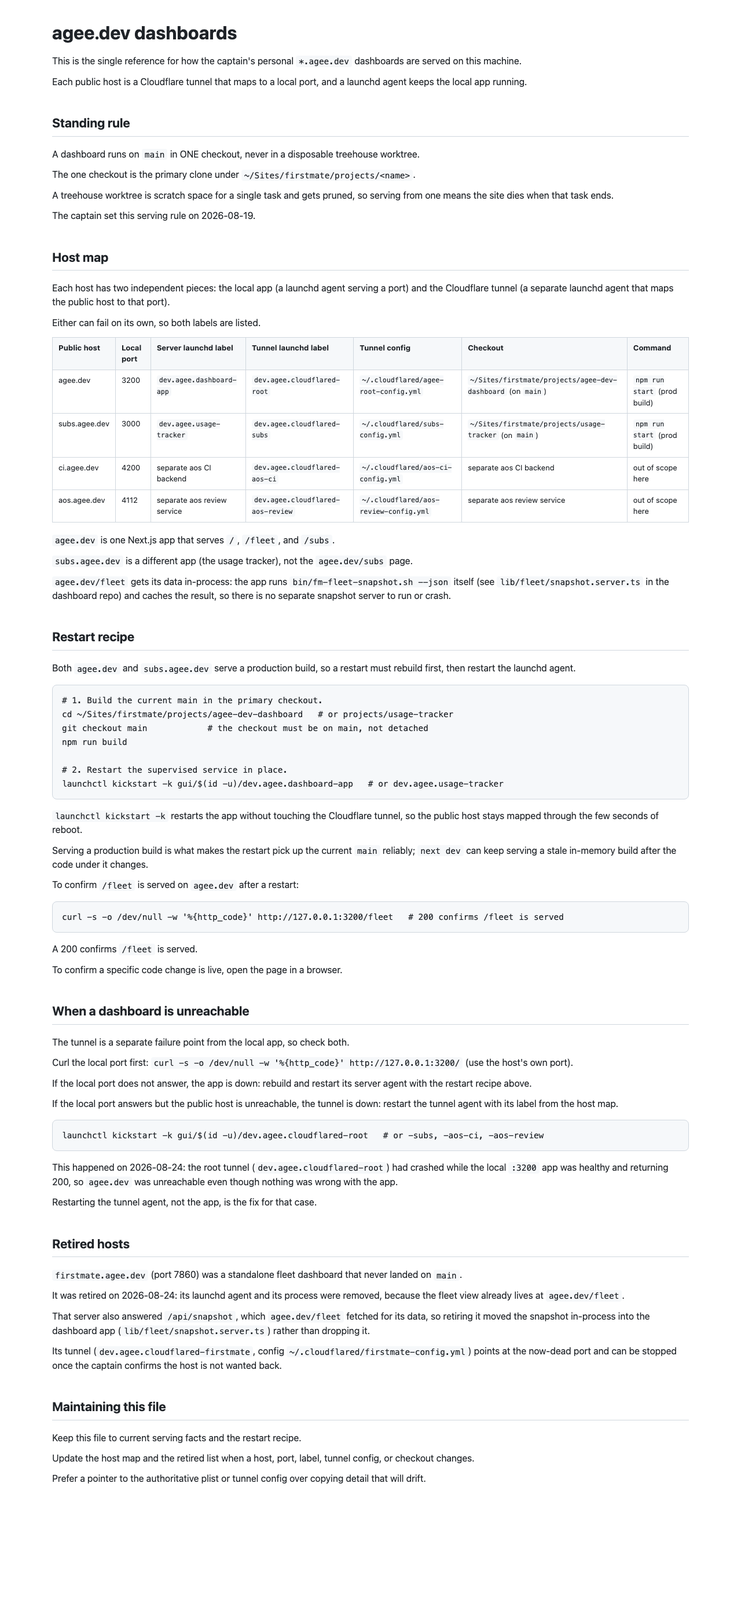
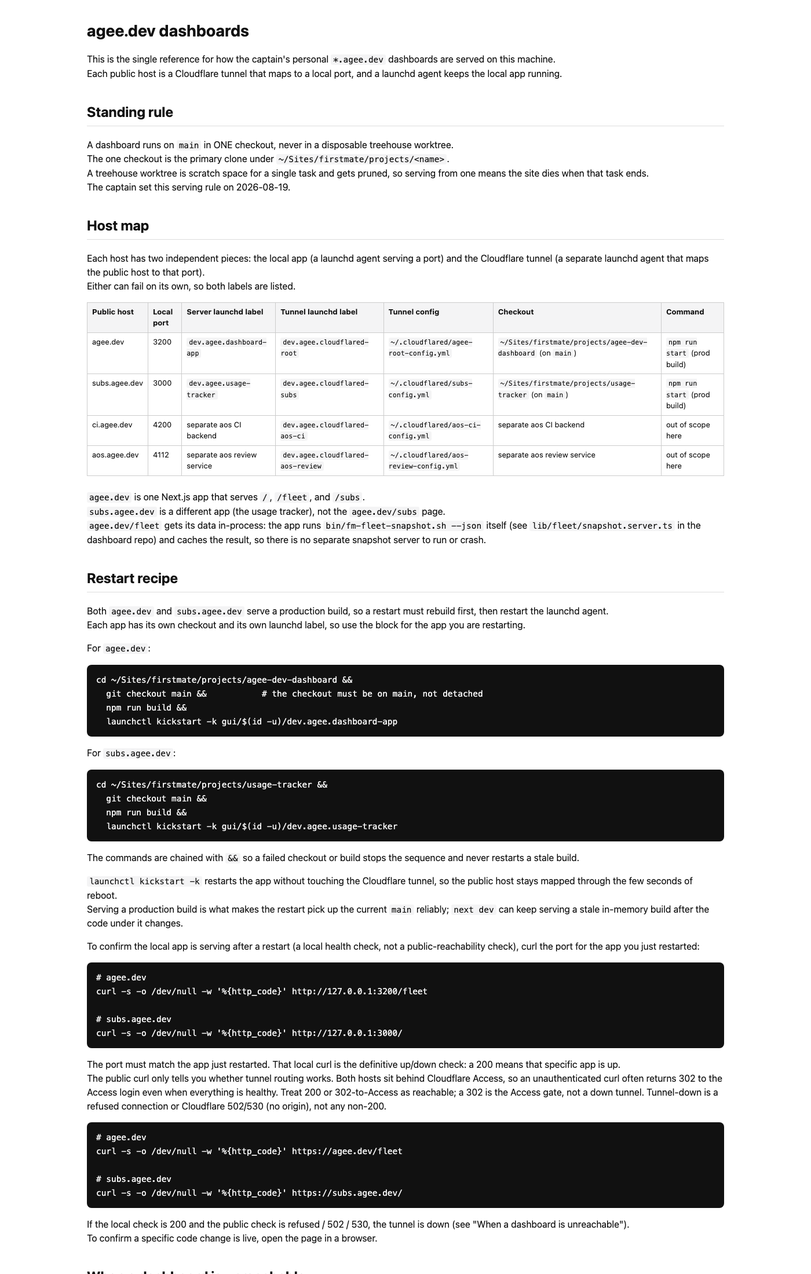
no-mistakes: evidence for fm/fix-dashboard-services-apply (run 01M0TDNG8GP13NNZNC78METY2P)

Changed region(s): [[0.0625, 0.0, 0.9062, 0.9891]]

diff --git a/.no-mistakes/evidence/fm/fix-dashboard-services-apply/dashboards-operator-reference.html b/.no-mistakes/evidence/fm/fix-dashboard-services-apply/dashboards-operator-reference.html
@@ -1,100 +1,65 @@
-<!DOCTYPE html>
-<html lang="en">
-<head>
-<meta charset="utf-8"/>
+<!doctype html>
+<html lang="en"><head><meta charset="utf-8">
 <title>agee.dev dashboards — operator reference</title>
 <style>
   :root { color-scheme: light; }
-  body { font: 16px/1.5 -apple-system, BlinkMacSystemFont, "Segoe UI", Helvetica, Arial, sans-serif; margin: 0; background: #fff; color: #1f2328; }
-  main { max-width: 1100px; margin: 0 auto; padding: 32px 24px 80px; }
-  h1 { font-size: 2rem; border-bottom: 1px solid #d1d9e0; padding-bottom: .3em; }
-  h2 { font-size: 1.4rem; margin-top: 2em; border-bottom: 1px solid #d8dee4; padding-bottom: .2em; }
-  p { margin: 0.8em 0; }
-  code { background: #f6f8fa; padding: .15em .35em; border-radius: 4px; font-size: 85%; }
-  pre { background: #f6f8fa; padding: 16px; overflow: auto; border-radius: 8px; }
-  pre code { background: none; padding: 0; }
-  table { border-collapse: collapse; width: 100%; margin: 1em 0; font-size: 13px; }
-  th, td { border: 1px solid #d1d9e0; padding: 8px 10px; text-align: left; vertical-align: top; }
-  th { background: #f6f8fa; }
-</style>
-</head>
-<body>
-<main>
-<h1>agee.dev dashboards</h1>
-<p>This is the single reference for how the captain&#x27;s personal <code>*.agee.dev</code> dashboards are served on this machine.</p>
-<p>Each public host is a Cloudflare tunnel that maps to a local port, and a launchd agent keeps the local app running.</p>
-<h2>Standing rule</h2>
-<p>A dashboard runs on <code>main</code> in ONE checkout, never in a disposable treehouse worktree.</p>
-<p>The one checkout is the primary clone under <code>~/Sites/firstmate/projects/&lt;name&gt;</code>.</p>
-<p>A treehouse worktree is scratch space for a single task and gets pruned, so serving from one means the site dies when that task ends.</p>
-<p>The captain set this serving rule on 2026-08-19.</p>
-<h2>Host map</h2>
-<p>Each host has two independent pieces: the local app (a launchd agent serving a port) and the Cloudflare tunnel (a separate launchd agent that maps the public host to that port).</p>
-<p>Either can fail on its own, so both labels are listed.</p>
-<table><thead><tr><th>Public host</th><th>Local port</th><th>Server launchd label</th><th>Tunnel launchd label</th><th>Tunnel config</th><th>Checkout</th><th>Command</th></tr></thead><tbody><tr><td>agee.dev</td><td>3200</td><td><code>dev.agee.dashboard-app</code></td><td><code>dev.agee.cloudflared-root</code></td><td><code>~/.cloudflared/agee-root-config.yml</code></td><td><code>~/Sites/firstmate/projects/agee-dev-dashboard</code> (on <code>main</code>)</td><td><code>npm run start</code> (prod build)</td></tr><tr><td>subs.agee.dev</td><td>3000</td><td><code>dev.agee.usage-tracker</code></td><td><code>dev.agee.cloudflared-subs</code></td><td><code>~/.cloudflared/subs-config.yml</code></td><td><code>~/Sites/firstmate/projects/usage-tracker</code> (on <code>main</code>)</td><td><code>npm run start</code> (prod build)</td></tr><tr><td>ci.agee.dev</td><td>4200</td><td>separate aos CI backend</td><td><code>dev.agee.cloudflared-aos-ci</code></td><td><code>~/.cloudflared/aos-ci-config.yml</code></td><td>separate aos CI backend</td><td>out of scope here</td></tr><tr><td>aos.agee.dev</td><td>4112</td><td>separate aos review service</td><td><code>dev.agee.cloudflared-aos-review</code></td><td><code>~/.cloudflared/aos-review-config.yml</code></td><td>separate aos review service</td><td>out of scope here</td></tr></tbody></table>
-<p><code>agee.dev</code> is one Next.js app that serves <code>/</code>, <code>/fleet</code>, and <code>/subs</code>.</p>
-<p><code>subs.agee.dev</code> is a different app (the usage tracker), not the <code>agee.dev/subs</code> page.</p>
-<p><code>agee.dev/fleet</code> gets its data in-process: the app runs <code>bin/fm-fleet-snapshot.sh --json</code> itself (see <code>lib/fleet/snapshot.server.ts</code> in the dashboard repo) and caches the result, so there is no separate snapshot server to run or crash.</p>
-<h2>Restart recipe</h2>
-<p>Both <code>agee.dev</code> and <code>subs.agee.dev</code> serve a production build, so a restart must rebuild first, then restart the launchd agent.</p>
-<p>Each app has its own checkout and its own launchd label, so use the block for the app you are restarting.</p>
-<p>For <code>agee.dev</code>:</p>
-<pre class="lang-bash"><code>cd ~/Sites/firstmate/projects/agee-dev-dashboard
-git checkout main            # the checkout must be on main, not detached
-npm run build
-launchctl kickstart -k gui/$(id -u)/dev.agee.dashboard-app</code></pre>
-<p>For <code>subs.agee.dev</code>:</p>
-<pre class="lang-bash"><code>cd ~/Sites/firstmate/projects/usage-tracker
-git checkout main
-npm run build
-launchctl kickstart -k gui/$(id -u)/dev.agee.usage-tracker</code></pre>
-<p><code>launchctl kickstart -k</code> restarts the app without touching the Cloudflare tunnel, so the public host stays mapped through the few seconds of reboot.</p>
-<p>Serving a production build is what makes the restart pick up the current <code>main</code> reliably; <code>next dev</code> can keep serving a stale in-memory build after the code under it changes.</p>
-<p>To confirm the local app is serving after a restart (a local health check, not a public-reachability check), curl the port for the app you just restarted:</p>
-<pre class="lang-bash"><code># agee.dev
+  body { font: 16px/1.5 ui-sans-serif, system-ui, -apple-system, sans-serif; max-width: 1100px; margin: 32px auto; padding: 0 24px 64px; color: #111; }
+  h1 { font-size: 28px; margin-bottom: 8px; }
+  h2 { margin-top: 36px; border-bottom: 1px solid #ddd; padding-bottom: 6px; }
+  table { border-collapse: collapse; width: 100%; font-size: 13px; margin: 16px 0 24px; }
+  th, td { border: 1px solid #ccc; padding: 6px 8px; text-align: left; vertical-align: top; }
+  th { background: #f4f4f5; }
+  code { font-family: ui-monospace, SFMono-Regular, Menlo, monospace; font-size: 0.9em; background: #f4f4f5; padding: 1px 4px; border-radius: 3px; }
+  pre.code { background: #111; color: #f5f5f5; padding: 14px 16px; overflow: auto; border-radius: 8px; }
+  pre.code code { background: transparent; color: inherit; padding: 0; }
+  ul { padding-left: 22px; }
+</style></head><body>
+<h1>agee.dev dashboards</h1><p>This is the single reference for how the captain&#x27;s personal <code>*.agee.dev</code> dashboards are served on this machine.<br>
+Each public host is a Cloudflare tunnel that maps to a local port, and a launchd agent keeps the local app running.</p><h2>Standing rule</h2><p>A dashboard runs on <code>main</code> in ONE checkout, never in a disposable treehouse worktree.<br>
+The one checkout is the primary clone under <code>~/Sites/firstmate/projects/&lt;name&gt;</code>.<br>
+A treehouse worktree is scratch space for a single task and gets pruned, so serving from one means the site dies when that task ends.<br>
+The captain set this serving rule on 2026-08-19.</p><h2>Host map</h2><p>Each host has two independent pieces: the local app (a launchd agent serving a port) and the Cloudflare tunnel (a separate launchd agent that maps the public host to that port).<br>
+Either can fail on its own, so both labels are listed.</p><table><thead><tr><th>Public host</th><th>Local port</th><th>Server launchd label</th><th>Tunnel launchd label</th><th>Tunnel config</th><th>Checkout</th><th>Command</th></tr></thead><tbody><tr><td>agee.dev</td><td>3200</td><td><code>dev.agee.dashboard-app</code></td><td><code>dev.agee.cloudflared-root</code></td><td><code>~/.cloudflared/agee-root-config.yml</code></td><td><code>~/Sites/firstmate/projects/agee-dev-dashboard</code> (on <code>main</code>)</td><td><code>npm run start</code> (prod build)</td></tr><tr><td>subs.agee.dev</td><td>3000</td><td><code>dev.agee.usage-tracker</code></td><td><code>dev.agee.cloudflared-subs</code></td><td><code>~/.cloudflared/subs-config.yml</code></td><td><code>~/Sites/firstmate/projects/usage-tracker</code> (on <code>main</code>)</td><td><code>npm run start</code> (prod build)</td></tr><tr><td>ci.agee.dev</td><td>4200</td><td>separate aos CI backend</td><td><code>dev.agee.cloudflared-aos-ci</code></td><td><code>~/.cloudflared/aos-ci-config.yml</code></td><td>separate aos CI backend</td><td>out of scope here</td></tr><tr><td>aos.agee.dev</td><td>4112</td><td>separate aos review service</td><td><code>dev.agee.cloudflared-aos-review</code></td><td><code>~/.cloudflared/aos-review-config.yml</code></td><td>separate aos review service</td><td>out of scope here</td></tr></tbody></table><p><code>agee.dev</code> is one Next.js app that serves <code>/</code>, <code>/fleet</code>, and <code>/subs</code>.<br>
+<code>subs.agee.dev</code> is a different app (the usage tracker), not the <code>agee.dev/subs</code> page.<br>
+<code>agee.dev/fleet</code> gets its data in-process: the app runs <code>bin/fm-fleet-snapshot.sh --json</code> itself (see <code>lib/fleet/snapshot.server.ts</code> in the dashboard repo) and caches the result, so there is no separate snapshot server to run or crash.</p><h2>Restart recipe</h2><p>Both <code>agee.dev</code> and <code>subs.agee.dev</code> serve a production build, so a restart must rebuild first, then restart the launchd agent.<br>
+Each app has its own checkout and its own launchd label, so use the block for the app you are restarting.</p><p>For <code>agee.dev</code>:</p><pre class="code"><code>cd ~/Sites/firstmate/projects/agee-dev-dashboard &amp;&amp;
+  git checkout main &amp;&amp;           # the checkout must be on main, not detached
+  npm run build &amp;&amp;
+  launchctl kickstart -k gui/$(id -u)/dev.agee.dashboard-app
+</code></pre><p>For <code>subs.agee.dev</code>:</p><pre class="code"><code>cd ~/Sites/firstmate/projects/usage-tracker &amp;&amp;
+  git checkout main &amp;&amp;
+  npm run build &amp;&amp;
+  launchctl kickstart -k gui/$(id -u)/dev.agee.usage-tracker
+</code></pre><p>The commands are chained with <code>&amp;&amp;</code> so a failed checkout or build stops the sequence and never restarts a stale build.</p><p><code>launchctl kickstart -k</code> restarts the app without touching the Cloudflare tunnel, so the public host stays mapped through the few seconds of reboot.<br>
+Serving a production build is what makes the restart pick up the current <code>main</code> reliably; <code>next dev</code> can keep serving a stale in-memory build after the code under it changes.</p><p>To confirm the local app is serving after a restart (a local health check, not a public-reachability check), curl the port for the app you just restarted:</p><pre class="code"><code># agee.dev
 curl -s -o /dev/null -w &#x27;%{http_code}&#x27; http://127.0.0.1:3200/fleet
 
 # subs.agee.dev
-curl -s -o /dev/null -w &#x27;%{http_code}&#x27; http://127.0.0.1:3000/</code></pre>
-<p>The port must match the app just restarted. That local curl is the definitive up/down check: a 200 means that specific app is up.</p>
-<p>The public curl only tells you whether tunnel routing works. Both hosts sit behind Cloudflare Access, so an unauthenticated curl often returns 302 to the Access login even when everything is healthy. Treat 200 or 302-to-Access as reachable; a 302 is the Access gate, not a down tunnel. Tunnel-down is a refused connection or Cloudflare 502/530 (no origin), not any non-200.</p>
-<pre class="lang-bash"><code># agee.dev
+curl -s -o /dev/null -w &#x27;%{http_code}&#x27; http://127.0.0.1:3000/
+</code></pre><p>The port must match the app just restarted. That local curl is the definitive up/down check: a 200 means that specific app is up.<br>
+The public curl only tells you whether tunnel routing works. Both hosts sit behind Cloudflare Access, so an unauthenticated curl often returns 302 to the Access login even when everything is healthy. Treat 200 or 302-to-Access as reachable; a 302 is the Access gate, not a down tunnel. Tunnel-down is a refused connection or Cloudflare 502/530 (no origin), not any non-200.</p><pre class="code"><code># agee.dev
 curl -s -o /dev/null -w &#x27;%{http_code}&#x27; https://agee.dev/fleet
 
 # subs.agee.dev
-curl -s -o /dev/null -w &#x27;%{http_code}&#x27; https://subs.agee.dev/</code></pre>
-<p>If the local check is 200 and the public check is refused / 502 / 530, the tunnel is down (see &quot;When a dashboard is unreachable&quot;).</p>
-<p>To confirm a specific code change is live, open the page in a browser.</p>
-<h2>When a dashboard is unreachable</h2>
-<p>The tunnel is a separate failure point from the local app, so check both.</p>
-<p>Probe the local port of the host you are diagnosing:</p>
-<pre class="lang-bash"><code># agee.dev
+curl -s -o /dev/null -w &#x27;%{http_code}&#x27; https://subs.agee.dev/
+</code></pre><p>If the local check is 200 and the public check is refused / 502 / 530, the tunnel is down (see &quot;When a dashboard is unreachable&quot;).<br>
+To confirm a specific code change is live, open the page in a browser.</p><h2>When a dashboard is unreachable</h2><p>The tunnel is a separate failure point from the local app, so check both.<br>
+Probe the local port of the host you are diagnosing:</p><pre class="code"><code># agee.dev
 curl -s -o /dev/null -w &#x27;%{http_code}&#x27; http://127.0.0.1:3200/fleet
 
 # subs.agee.dev
-curl -s -o /dev/null -w &#x27;%{http_code}&#x27; http://127.0.0.1:3000/</code></pre>
-<p>A 200 on that port confirms that specific local app is up.</p>
-<p>If the local port does not answer, the app is down: rebuild and restart its server agent with the restart recipe above.</p>
-<p>If the local port answers, the app is up. The public curl only distinguishes tunnel routing from a down tunnel. Both hosts sit behind Cloudflare Access, so an unauthenticated curl often returns 302 to the Access login even when the tunnel and app are healthy. 200 or 302-to-Access means the host is reachable; a 302 is the Access gate, not tunnel-down. Tunnel-down is a refused connection or Cloudflare 502/530 (no origin).</p>
-<pre class="lang-bash"><code># agee.dev
+curl -s -o /dev/null -w &#x27;%{http_code}&#x27; http://127.0.0.1:3000/
+</code></pre><p>A 200 on that port confirms that specific local app is up.</p><p>If the local port does not answer, the app is down: rebuild and restart its server agent with the restart recipe above.</p><p>If the local port answers, the app is up. The public curl only distinguishes tunnel routing from a down tunnel. Both hosts sit behind Cloudflare Access, so an unauthenticated curl often returns 302 to the Access login even when the tunnel and app are healthy. 200 or 302-to-Access means the host is reachable; a 302 is the Access gate, not tunnel-down. Tunnel-down is a refused connection or Cloudflare 502/530 (no origin).</p><pre class="code"><code># agee.dev
 curl -s -o /dev/null -w &#x27;%{http_code}&#x27; https://agee.dev/fleet
 
 # subs.agee.dev
-curl -s -o /dev/null -w &#x27;%{http_code}&#x27; https://subs.agee.dev/</code></pre>
-<p>If the local port answers but the public check is refused / 502 / 530, the tunnel is down: restart the tunnel agent whose label matches the affected host from the host map. The label is <code>dev.agee.cloudflared-&lt;name&gt;</code>, where <code>&lt;name&gt;</code> is <code>root</code>, <code>subs</code>, <code>aos-ci</code>, or <code>aos-review</code>.</p>
-<pre class="lang-bash"><code>launchctl kickstart -k gui/$(id -u)/dev.agee.cloudflared-&lt;name&gt;</code></pre>
-<p>This happened on 2026-08-24: the root tunnel (<code>dev.agee.cloudflared-root</code>) had crashed while the local <code>:3200</code> app was healthy and returning 200, so <code>agee.dev</code> was unreachable even though nothing was wrong with the app.</p>
-<p>Restarting the tunnel agent, not the app, is the fix for that case.</p>
-<h2>Retired hosts</h2>
-<p><code>firstmate.agee.dev</code> (port 7860) was a standalone fleet dashboard that never landed on <code>main</code>.</p>
-<p>It was retired on 2026-08-24: its launchd agent and its process were removed, because the fleet view already lives at <code>agee.dev/fleet</code>.</p>
-<p>That server also answered <code>/api/snapshot</code>, which <code>agee.dev/fleet</code> fetched for its data, so retiring it moved the snapshot in-process into the dashboard app (<code>lib/fleet/snapshot.server.ts</code>) rather than dropping it.</p>
-<p>Its tunnel (<code>dev.agee.cloudflared-firstmate</code>, config <code>~/.cloudflared/firstmate-config.yml</code>) was stopped on 2026-08-24 and its launchd plist disabled (renamed to <code>.disabled</code>), so nothing serves <code>firstmate.agee.dev</code>. Its DNS may still resolve to Cloudflare, which now returns an error / non-200 because no tunnel backs the host.</p>
-<p>To bring <code>firstmate.agee.dev</code> back, land the fleet-dashboard server on <code>main</code>, restore the plist, and start the tunnel again.</p>
-<h2>Maintaining this file</h2>
-<p>Keep this file to current serving facts and the restart recipe.</p>
-<p>Update the host map and the retired list when a host, port, label, tunnel config, or checkout changes.</p>
-<p>Prefer a pointer to the authoritative plist or tunnel config over copying detail that will drift.</p>
-</main>
-</body>
-</html>
+curl -s -o /dev/null -w &#x27;%{http_code}&#x27; https://subs.agee.dev/
+</code></pre><p>If the local port answers but the public check is refused / 502 / 530, the tunnel is down: restart the tunnel agent whose label matches the affected host from the host map. The label is <code>dev.agee.cloudflared-&lt;name&gt;</code>, where <code>&lt;name&gt;</code> is <code>root</code>, <code>subs</code>, <code>aos-ci</code>, or <code>aos-review</code>.</p><pre class="code"><code>launchctl kickstart -k gui/$(id -u)/dev.agee.cloudflared-&lt;name&gt;
+</code></pre><p>This happened on 2026-08-24: the root tunnel (<code>dev.agee.cloudflared-root</code>) had crashed while the local <code>:3200</code> app was healthy and returning 200, so <code>agee.dev</code> was unreachable even though nothing was wrong with the app.<br>
+Restarting the tunnel agent, not the app, is the fix for that case.</p><h2>Retired hosts</h2><p><code>firstmate.agee.dev</code> (port 7860) was a standalone fleet dashboard that never landed on <code>main</code>.<br>
+It was retired on 2026-08-24: its launchd agent and its process were removed, because the fleet view already lives at <code>agee.dev/fleet</code>.<br>
+That server also answered <code>/api/snapshot</code>, which <code>agee.dev/fleet</code> fetched for its data, so retiring it moved the snapshot in-process into the dashboard app (<code>lib/fleet/snapshot.server.ts</code>) rather than dropping it.<br>
+Its tunnel (<code>dev.agee.cloudflared-firstmate</code>, config <code>~/.cloudflared/firstmate-config.yml</code>) was stopped on 2026-08-24 and its launchd plist disabled (renamed to <code>.disabled</code>), so nothing serves <code>firstmate.agee.dev</code>. Its DNS may still resolve to Cloudflare, which now returns an error / non-200 because no tunnel backs the host.</p><p>To bring <code>firstmate.agee.dev</code> back, both launchd agents have to return, or the tunnel would run with no server behind port 7860:</p><ul><li>Server: land the fleet-dashboard server (<code>bin/fm-fleet-dashboard.js</code>, which currently lives only on an unmerged branch) on <code>main</code>, then recreate and load its <code>dev.agee.firstmate-dashboard</code> launchd agent (that plist was deleted, not disabled).</li><li>Tunnel: rename <code>dev.agee.cloudflared-firstmate.plist.disabled</code> back to <code>.plist</code> and load it (<code>launchctl bootstrap gui/$(id -u) ~/Library/LaunchAgents/dev.agee.cloudflared-firstmate.plist</code>).</li></ul><h2>Maintaining this file</h2><p>Keep this file to current serving facts and the restart recipe.<br>
+Update the host map and the retired list when a host, port, label, tunnel config, or checkout changes.<br>
+Prefer a pointer to the authoritative plist or tunnel config over copying detail that will drift.</p>
+</body></html>

diff --git a/.no-mistakes/evidence/fm/fix-dashboard-services-apply/dashboards-operator-reference-lower.html b/.no-mistakes/evidence/fm/fix-dashboard-services-apply/dashboards-operator-reference-lower.html
@@ -1,67 +1,35 @@
-<!DOCTYPE html><html><head><meta charset="utf-8"/><title>dashboards restart/unreachable/retired</title>
+<!doctype html>
+<html lang="en"><head><meta charset="utf-8">
+<title>agee.dev dashboards — operator reference</title>
 <style>
-body{font:16px/1.5 -apple-system,BlinkMacSystemFont,sans-serif;margin:0;background:#fff;color:#1f2328}
-main{max-width:1100px;margin:0 auto;padding:24px}
-h2{border-bottom:1px solid #d8dee4;padding-bottom:.2em}
-code{background:#f6f8fa;padding:.15em .35em;border-radius:4px;font-size:85%}
-pre{background:#f6f8fa;padding:16px;border-radius:8px;overflow:auto}
-</style></head><body><main><h2>Restart recipe</h2>
-<p>Both <code>agee.dev</code> and <code>subs.agee.dev</code> serve a production build, so a restart must rebuild first, then restart the launchd agent.</p>
-<p>Each app has its own checkout and its own launchd label, so use the block for the app you are restarting.</p>
-<p>For <code>agee.dev</code>:</p>
-<pre class="lang-bash"><code>cd ~/Sites/firstmate/projects/agee-dev-dashboard
-git checkout main            # the checkout must be on main, not detached
-npm run build
-launchctl kickstart -k gui/$(id -u)/dev.agee.dashboard-app</code></pre>
-<p>For <code>subs.agee.dev</code>:</p>
-<pre class="lang-bash"><code>cd ~/Sites/firstmate/projects/usage-tracker
-git checkout main
-npm run build
-launchctl kickstart -k gui/$(id -u)/dev.agee.usage-tracker</code></pre>
-<p><code>launchctl kickstart -k</code> restarts the app without touching the Cloudflare tunnel, so the public host stays mapped through the few seconds of reboot.</p>
-<p>Serving a production build is what makes the restart pick up the current <code>main</code> reliably; <code>next dev</code> can keep serving a stale in-memory build after the code under it changes.</p>
-<p>To confirm the local app is serving after a restart (a local health check, not a public-reachability check), curl the port for the app you just restarted:</p>
-<pre class="lang-bash"><code># agee.dev
+  :root { color-scheme: light; }
+  body { font: 16px/1.5 ui-sans-serif, system-ui, -apple-system, sans-serif; max-width: 1100px; margin: 32px auto; padding: 0 24px 64px; color: #111; }
+  h1 { font-size: 28px; margin-bottom: 8px; }
+  h2 { margin-top: 36px; border-bottom: 1px solid #ddd; padding-bottom: 6px; }
+  table { border-collapse: collapse; width: 100%; font-size: 13px; margin: 16px 0 24px; }
+  th, td { border: 1px solid #ccc; padding: 6px 8px; text-align: left; vertical-align: top; }
+  th { background: #f4f4f5; }
+  code { font-family: ui-monospace, SFMono-Regular, Menlo, monospace; font-size: 0.9em; background: #f4f4f5; padding: 1px 4px; border-radius: 3px; }
+  pre.code { background: #111; color: #f5f5f5; padding: 14px 16px; overflow: auto; border-radius: 8px; }
+  pre.code code { background: transparent; color: inherit; padding: 0; }
+  ul { padding-left: 22px; }
+</style></head><body><h2>When a dashboard is unreachable</h2><p>The tunnel is a separate failure point from the local app, so check both.<br>
+Probe the local port of the host you are diagnosing:</p><pre class="code"><code># agee.dev
 curl -s -o /dev/null -w &#x27;%{http_code}&#x27; http://127.0.0.1:3200/fleet
 
 # subs.agee.dev
-curl -s -o /dev/null -w &#x27;%{http_code}&#x27; http://127.0.0.1:3000/</code></pre>
-<p>The port must match the app just restarted. That local curl is the definitive up/down check: a 200 means that specific app is up.</p>
-<p>The public curl only tells you whether tunnel routing works. Both hosts sit behind Cloudflare Access, so an unauthenticated curl often returns 302 to the Access login even when everything is healthy. Treat 200 or 302-to-Access as reachable; a 302 is the Access gate, not a down tunnel. Tunnel-down is a refused connection or Cloudflare 502/530 (no origin), not any non-200.</p>
-<pre class="lang-bash"><code># agee.dev
+curl -s -o /dev/null -w &#x27;%{http_code}&#x27; http://127.0.0.1:3000/
+</code></pre><p>A 200 on that port confirms that specific local app is up.</p><p>If the local port does not answer, the app is down: rebuild and restart its server agent with the restart recipe above.</p><p>If the local port answers, the app is up. The public curl only distinguishes tunnel routing from a down tunnel. Both hosts sit behind Cloudflare Access, so an unauthenticated curl often returns 302 to the Access login even when the tunnel and app are healthy. 200 or 302-to-Access means the host is reachable; a 302 is the Access gate, not tunnel-down. Tunnel-down is a refused connection or Cloudflare 502/530 (no origin).</p><pre class="code"><code># agee.dev
 curl -s -o /dev/null -w &#x27;%{http_code}&#x27; https://agee.dev/fleet
 
 # subs.agee.dev
-curl -s -o /dev/null -w &#x27;%{http_code}&#x27; https://subs.agee.dev/</code></pre>
-<p>If the local check is 200 and the public check is refused / 502 / 530, the tunnel is down (see &quot;When a dashboard is unreachable&quot;).</p>
-<p>To confirm a specific code change is live, open the page in a browser.</p>
-<h2>When a dashboard is unreachable</h2>
-<p>The tunnel is a separate failure point from the local app, so check both.</p>
-<p>Probe the local port of the host you are diagnosing:</p>
-<pre class="lang-bash"><code># agee.dev
-curl -s -o /dev/null -w &#x27;%{http_code}&#x27; http://127.0.0.1:3200/fleet
-
-# subs.agee.dev
-curl -s -o /dev/null -w &#x27;%{http_code}&#x27; http://127.0.0.1:3000/</code></pre>
-<p>A 200 on that port confirms that specific local app is up.</p>
-<p>If the local port does not answer, the app is down: rebuild and restart its server agent with the restart recipe above.</p>
-<p>If the local port answers, the app is up. The public curl only distinguishes tunnel routing from a down tunnel. Both hosts sit behind Cloudflare Access, so an unauthenticated curl often returns 302 to the Access login even when the tunnel and app are healthy. 200 or 302-to-Access means the host is reachable; a 302 is the Access gate, not tunnel-down. Tunnel-down is a refused connection or Cloudflare 502/530 (no origin).</p>
-<pre class="lang-bash"><code># agee.dev
-curl -s -o /dev/null -w &#x27;%{http_code}&#x27; https://agee.dev/fleet
-
-# subs.agee.dev
-curl -s -o /dev/null -w &#x27;%{http_code}&#x27; https://subs.agee.dev/</code></pre>
-<p>If the local port answers but the public check is refused / 502 / 530, the tunnel is down: restart the tunnel agent whose label matches the affected host from the host map. The label is <code>dev.agee.cloudflared-&lt;name&gt;</code>, where <code>&lt;name&gt;</code> is <code>root</code>, <code>subs</code>, <code>aos-ci</code>, or <code>aos-review</code>.</p>
-<pre class="lang-bash"><code>launchctl kickstart -k gui/$(id -u)/dev.agee.cloudflared-&lt;name&gt;</code></pre>
-<p>This happened on 2026-08-24: the root tunnel (<code>dev.agee.cloudflared-root</code>) had crashed while the local <code>:3200</code> app was healthy and returning 200, so <code>agee.dev</code> was unreachable even though nothing was wrong with the app.</p>
-<p>Restarting the tunnel agent, not the app, is the fix for that case.</p>
-<h2>Retired hosts</h2>
-<p><code>firstmate.agee.dev</code> (port 7860) was a standalone fleet dashboard that never landed on <code>main</code>.</p>
-<p>It was retired on 2026-08-24: its launchd agent and its process were removed, because the fleet view already lives at <code>agee.dev/fleet</code>.</p>
-<p>That server also answered <code>/api/snapshot</code>, which <code>agee.dev/fleet</code> fetched for its data, so retiring it moved the snapshot in-process into the dashboard app (<code>lib/fleet/snapshot.server.ts</code>) rather than dropping it.</p>
-<p>Its tunnel (<code>dev.agee.cloudflared-firstmate</code>, config <code>~/.cloudflared/firstmate-config.yml</code>) was stopped on 2026-08-24 and its launchd plist disabled (renamed to <code>.disabled</code>), so nothing serves <code>firstmate.agee.dev</code>. Its DNS may still resolve to Cloudflare, which now returns an error / non-200 because no tunnel backs the host.</p>
-<p>To bring <code>firstmate.agee.dev</code> back, land the fleet-dashboard server on <code>main</code>, restore the plist, and start the tunnel again.</p>
-<h2>Maintaining this file</h2>
-<p>Keep this file to current serving facts and the restart recipe.</p>
-<p>Update the host map and the retired list when a host, port, label, tunnel config, or checkout changes.</p>
-<p>Prefer a pointer to the authoritative plist or tunnel config over copying detail that will drift.</p></main></body></html>
+curl -s -o /dev/null -w &#x27;%{http_code}&#x27; https://subs.agee.dev/
+</code></pre><p>If the local port answers but the public check is refused / 502 / 530, the tunnel is down: restart the tunnel agent whose label matches the affected host from the host map. The label is <code>dev.agee.cloudflared-&lt;name&gt;</code>, where <code>&lt;name&gt;</code> is <code>root</code>, <code>subs</code>, <code>aos-ci</code>, or <code>aos-review</code>.</p><pre class="code"><code>launchctl kickstart -k gui/$(id -u)/dev.agee.cloudflared-&lt;name&gt;
+</code></pre><p>This happened on 2026-08-24: the root tunnel (<code>dev.agee.cloudflared-root</code>) had crashed while the local <code>:3200</code> app was healthy and returning 200, so <code>agee.dev</code> was unreachable even though nothing was wrong with the app.<br>
+Restarting the tunnel agent, not the app, is the fix for that case.</p><h2>Retired hosts</h2><p><code>firstmate.agee.dev</code> (port 7860) was a standalone fleet dashboard that never landed on <code>main</code>.<br>
+It was retired on 2026-08-24: its launchd agent and its process were removed, because the fleet view already lives at <code>agee.dev/fleet</code>.<br>
+That server also answered <code>/api/snapshot</code>, which <code>agee.dev/fleet</code> fetched for its data, so retiring it moved the snapshot in-process into the dashboard app (<code>lib/fleet/snapshot.server.ts</code>) rather than dropping it.<br>
+Its tunnel (<code>dev.agee.cloudflared-firstmate</code>, config <code>~/.cloudflared/firstmate-config.yml</code>) was stopped on 2026-08-24 and its launchd plist disabled (renamed to <code>.disabled</code>), so nothing serves <code>firstmate.agee.dev</code>. Its DNS may still resolve to Cloudflare, which now returns an error / non-200 because no tunnel backs the host.</p><p>To bring <code>firstmate.agee.dev</code> back, both launchd agents have to return, or the tunnel would run with no server behind port 7860:</p><ul><li>Server: land the fleet-dashboard server (<code>bin/fm-fleet-dashboard.js</code>, which currently lives only on an unmerged branch) on <code>main</code>, then recreate and load its <code>dev.agee.firstmate-dashboard</code> launchd agent (that plist was deleted, not disabled).</li><li>Tunnel: rename <code>dev.agee.cloudflared-firstmate.plist.disabled</code> back to <code>.plist</code> and load it (<code>launchctl bootstrap gui/$(id -u) ~/Library/LaunchAgents/dev.agee.cloudflared-firstmate.plist</code>).</li></ul><h2>Maintaining this file</h2><p>Keep this file to current serving facts and the restart recipe.<br>
+Update the host map and the retired list when a host, port, label, tunnel config, or checkout changes.<br>
+Prefer a pointer to the authoritative plist or tunnel config over copying detail that will drift.</p>
+</body></html>
